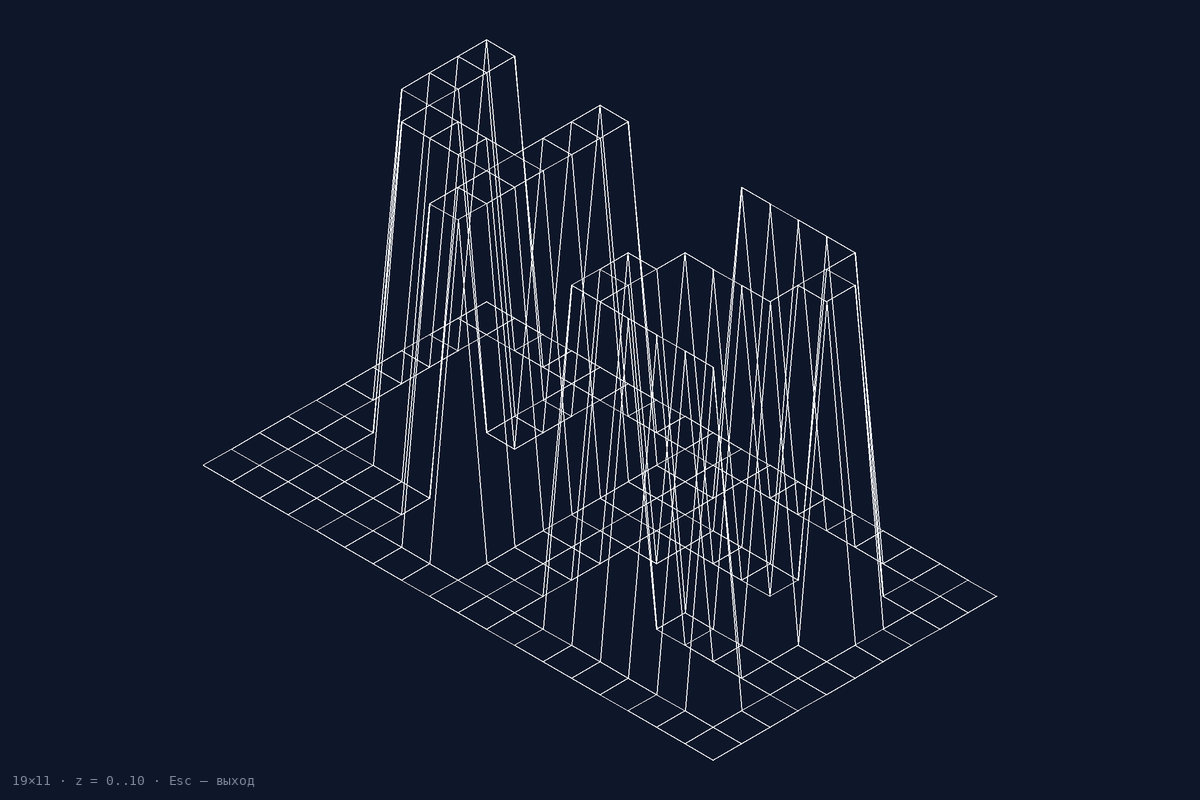
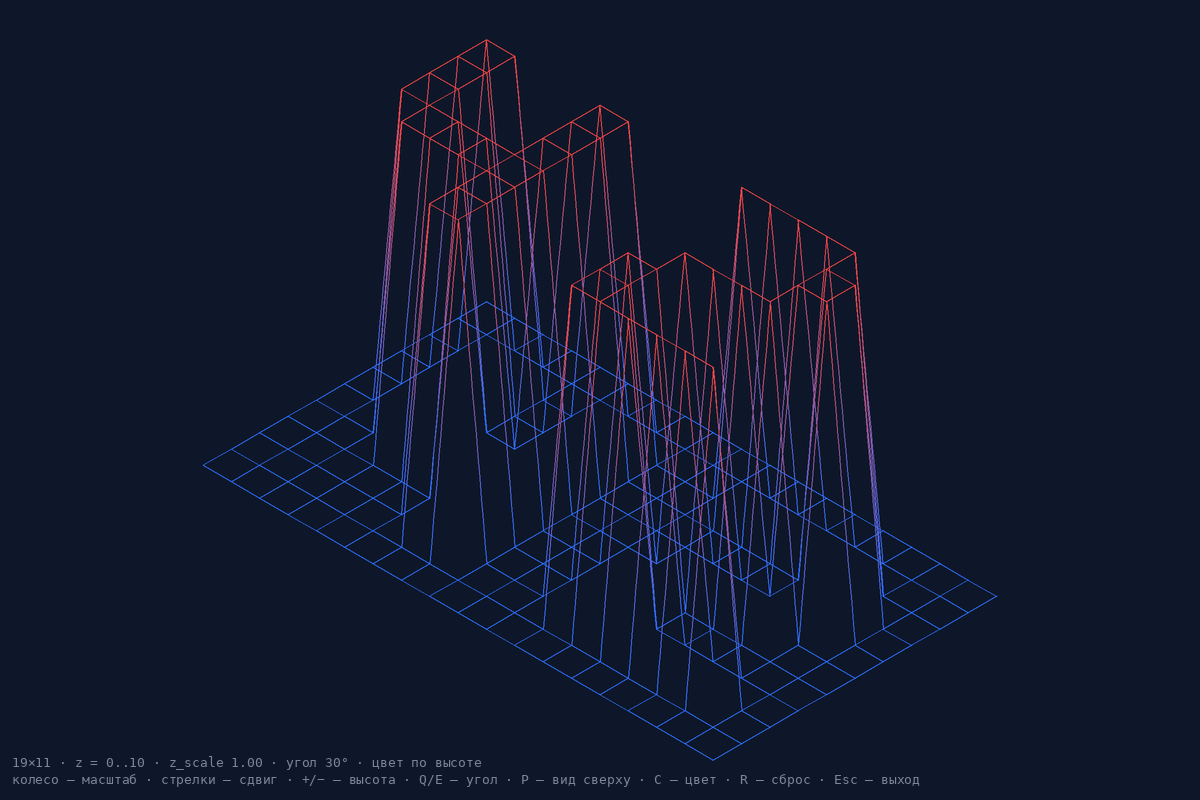
Добавить переключение цвета в окне и обновить скриншот

diff --git a/fdf/app.py b/fdf/app.py
@@ -7,7 +7,7 @@ import math
 import tkinter as tk
 
 from fdf.model import Map
-from fdf.projection import ISO_ANGLE, Camera, segments
+from fdf.projection import ISO_ANGLE, Camera, ColorMode, segments
 
 BACKGROUND = "#0E1729"
 HUD_COLOR = "#7A8599"
@@ -21,7 +21,7 @@ ANGLE_MAX = math.pi / 2
 
 HELP = (
     "колесо — масштаб · стрелки — сдвиг · +/− — высота · "
-    "Q/E — угол · P — вид сверху · R — сброс · Esc — выход"
+    "Q/E — угол · P — вид сверху · C — цвет · R — сброс · Esc — выход"
 )
 
 
@@ -40,6 +40,7 @@ class App:
         self.width = width
         self.height = height
         self._redraw_pending = False
+        self.color_mode: ColorMode = "height"
 
         self.root.protocol("WM_DELETE_WINDOW", self.close)
         self.root.bind("<Escape>", lambda _event: self.close())
@@ -96,6 +97,8 @@ class App:
         elif keysym.lower() == "p":
             camera.parallel = not camera.parallel
             camera.fit(self.map, self.width, self.height)
+        elif keysym.lower() == "c":
+            self.color_mode = "file" if self.color_mode == "height" else "height"
         elif keysym.lower() == "r":
             camera.z_scale = 1.0
             camera.angle = ISO_ANGLE
@@ -115,7 +118,7 @@ class App:
         """Перерисовать каркас."""
         self._redraw_pending = False
         self.canvas.delete("all")
-        for seg in segments(self.map, self.camera):
+        for seg in segments(self.map, self.camera, self.color_mode):
             self.canvas.create_line(seg.x0, seg.y0, seg.x1, seg.y1, fill=seg.color)
         self.canvas.create_text(
             12,
@@ -131,7 +134,8 @@ class App:
         m = self.map
         c = self.camera
         view = "сверху" if c.parallel else f"угол {math.degrees(c.angle):.0f}°"
+        colors = "по высоте" if self.color_mode == "height" else "из файла"
         return (
             f"{m.width}×{m.height} · z = {m.z_min}..{m.z_max} · "
-            f"z_scale {c.z_scale:.2f} · {view}\n{HELP}"
+            f"z_scale {c.z_scale:.2f} · {view} · цвет {colors}\n{HELP}"
         )

diff --git a/README.md b/README.md
@@ -41,6 +41,7 @@ python main.py maps/42.fdf
 | `+` / `−`               | увеличить / уменьшить высоту рельефа (`z_scale`) |
 | `Q` / `E`               | уменьшить / увеличить угол проекции (по 5°)      |
 | `P`                     | изометрия ↔ вид сверху (параллельная проекция)   |
+| `C`                     | цвет точек без цвета: по высоте ↔ белый          |
 | `R`                     | сбросить вид                                     |
 | `Esc` / закрытие окна   | выход                                            |
 
@@ -67,6 +68,12 @@ python main.py maps/42.fdf
   ошибка формата `MapFormatError`, например:
   `строка 2, колонка 3: 'x' — не целое число`.
 
+Точки с цветом в файле рисуются этим цветом, остальные — цветом по высоте
+(палитра синий → зелёный → жёлтый → красный) или белым (переключается клавишей `C`).
+Вдоль рёбер с разными цветами концов строится градиент: ребро делится на кусочки
+по ~6 px, цвет каждого — `C = (1 − t)·C_A + t·C_B` (`lerp_color`, `height_color`
+в `fdf/projection.py`).
+
 Примеры карт — в каталоге `maps/`, некорректные карты для тестов — в `maps/bad/`.
 
 ## Структура проекта
@@ -78,7 +85,7 @@ fdf-python/
 │   ├── errors.py      исключения FdfError и MapFormatError
 │   ├── model.py       Point и Map: размеры, len, обход, neighbors, рёбра
 │   ├── parser.py      чтение и проверка файла .fdf
-│   ├── projection.py  Camera: изометрия, fit; отрезки каркаса
+│   ├── projection.py  Camera: изометрия, fit, zoom; цвета и градиент; отрезки каркаса
 │   └── app.py         окно tkinter (единственный модуль с графикой)
 ├── maps/              карты; maps/bad/ — карты с ошибками
 ├── tests/             тесты pytest
